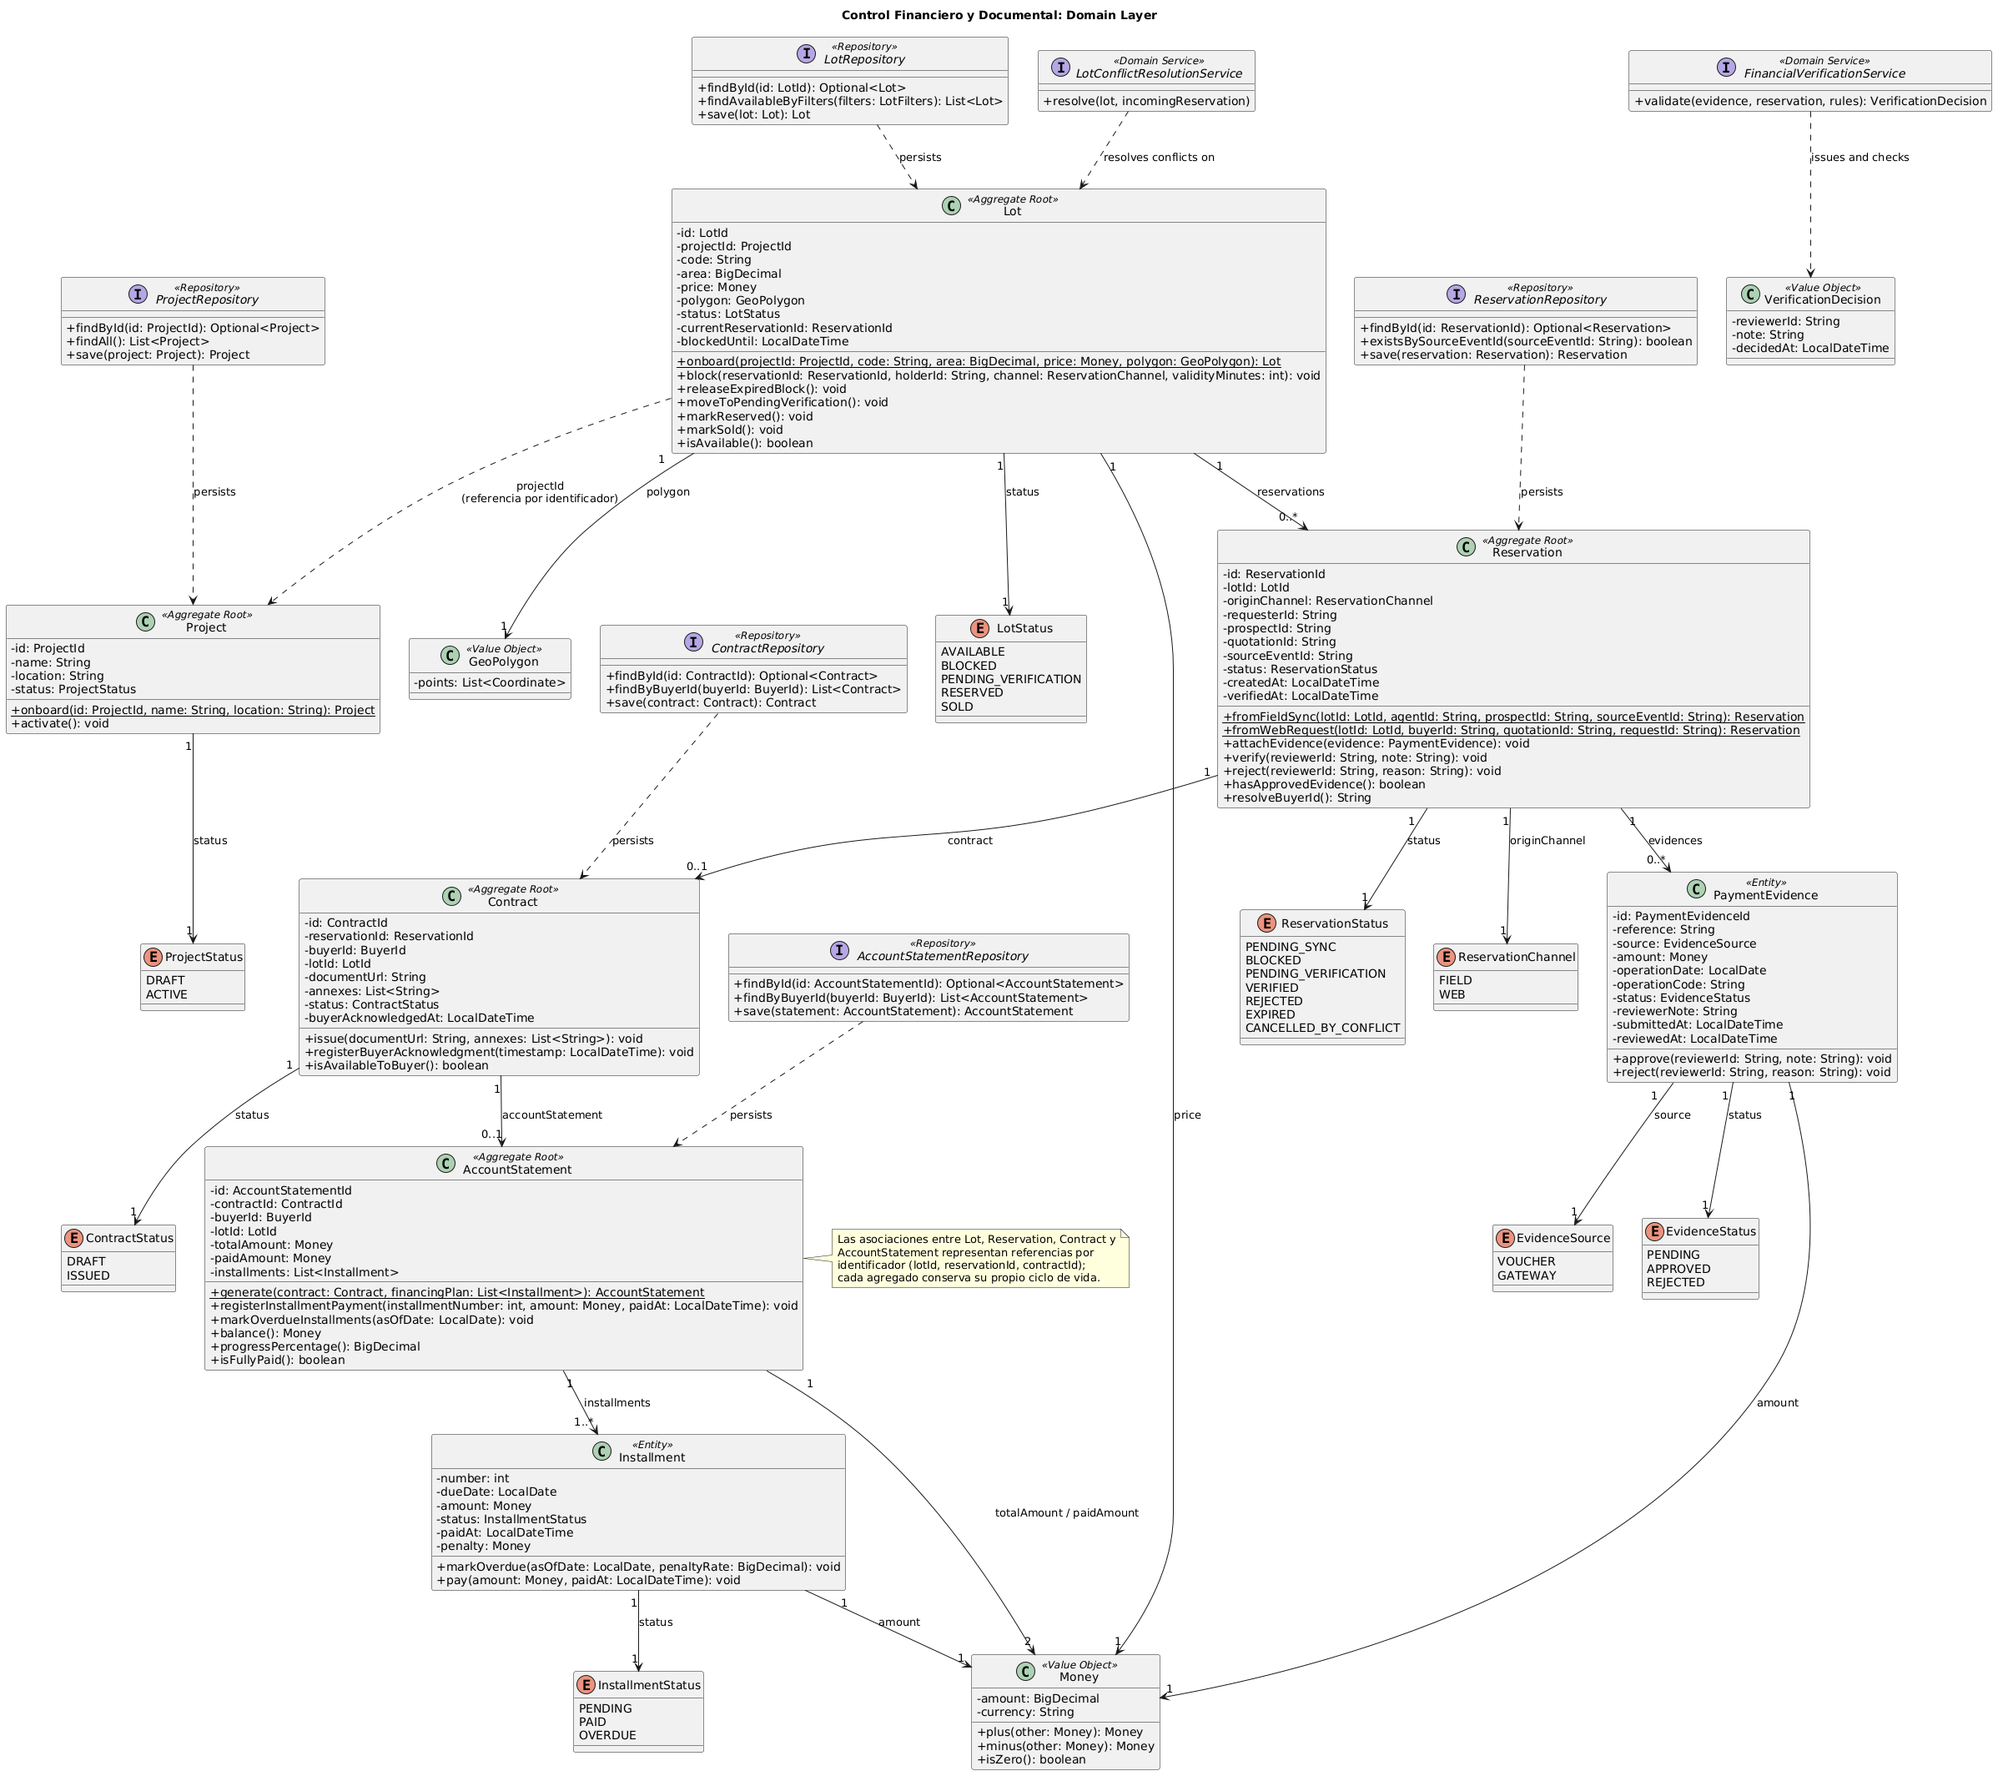
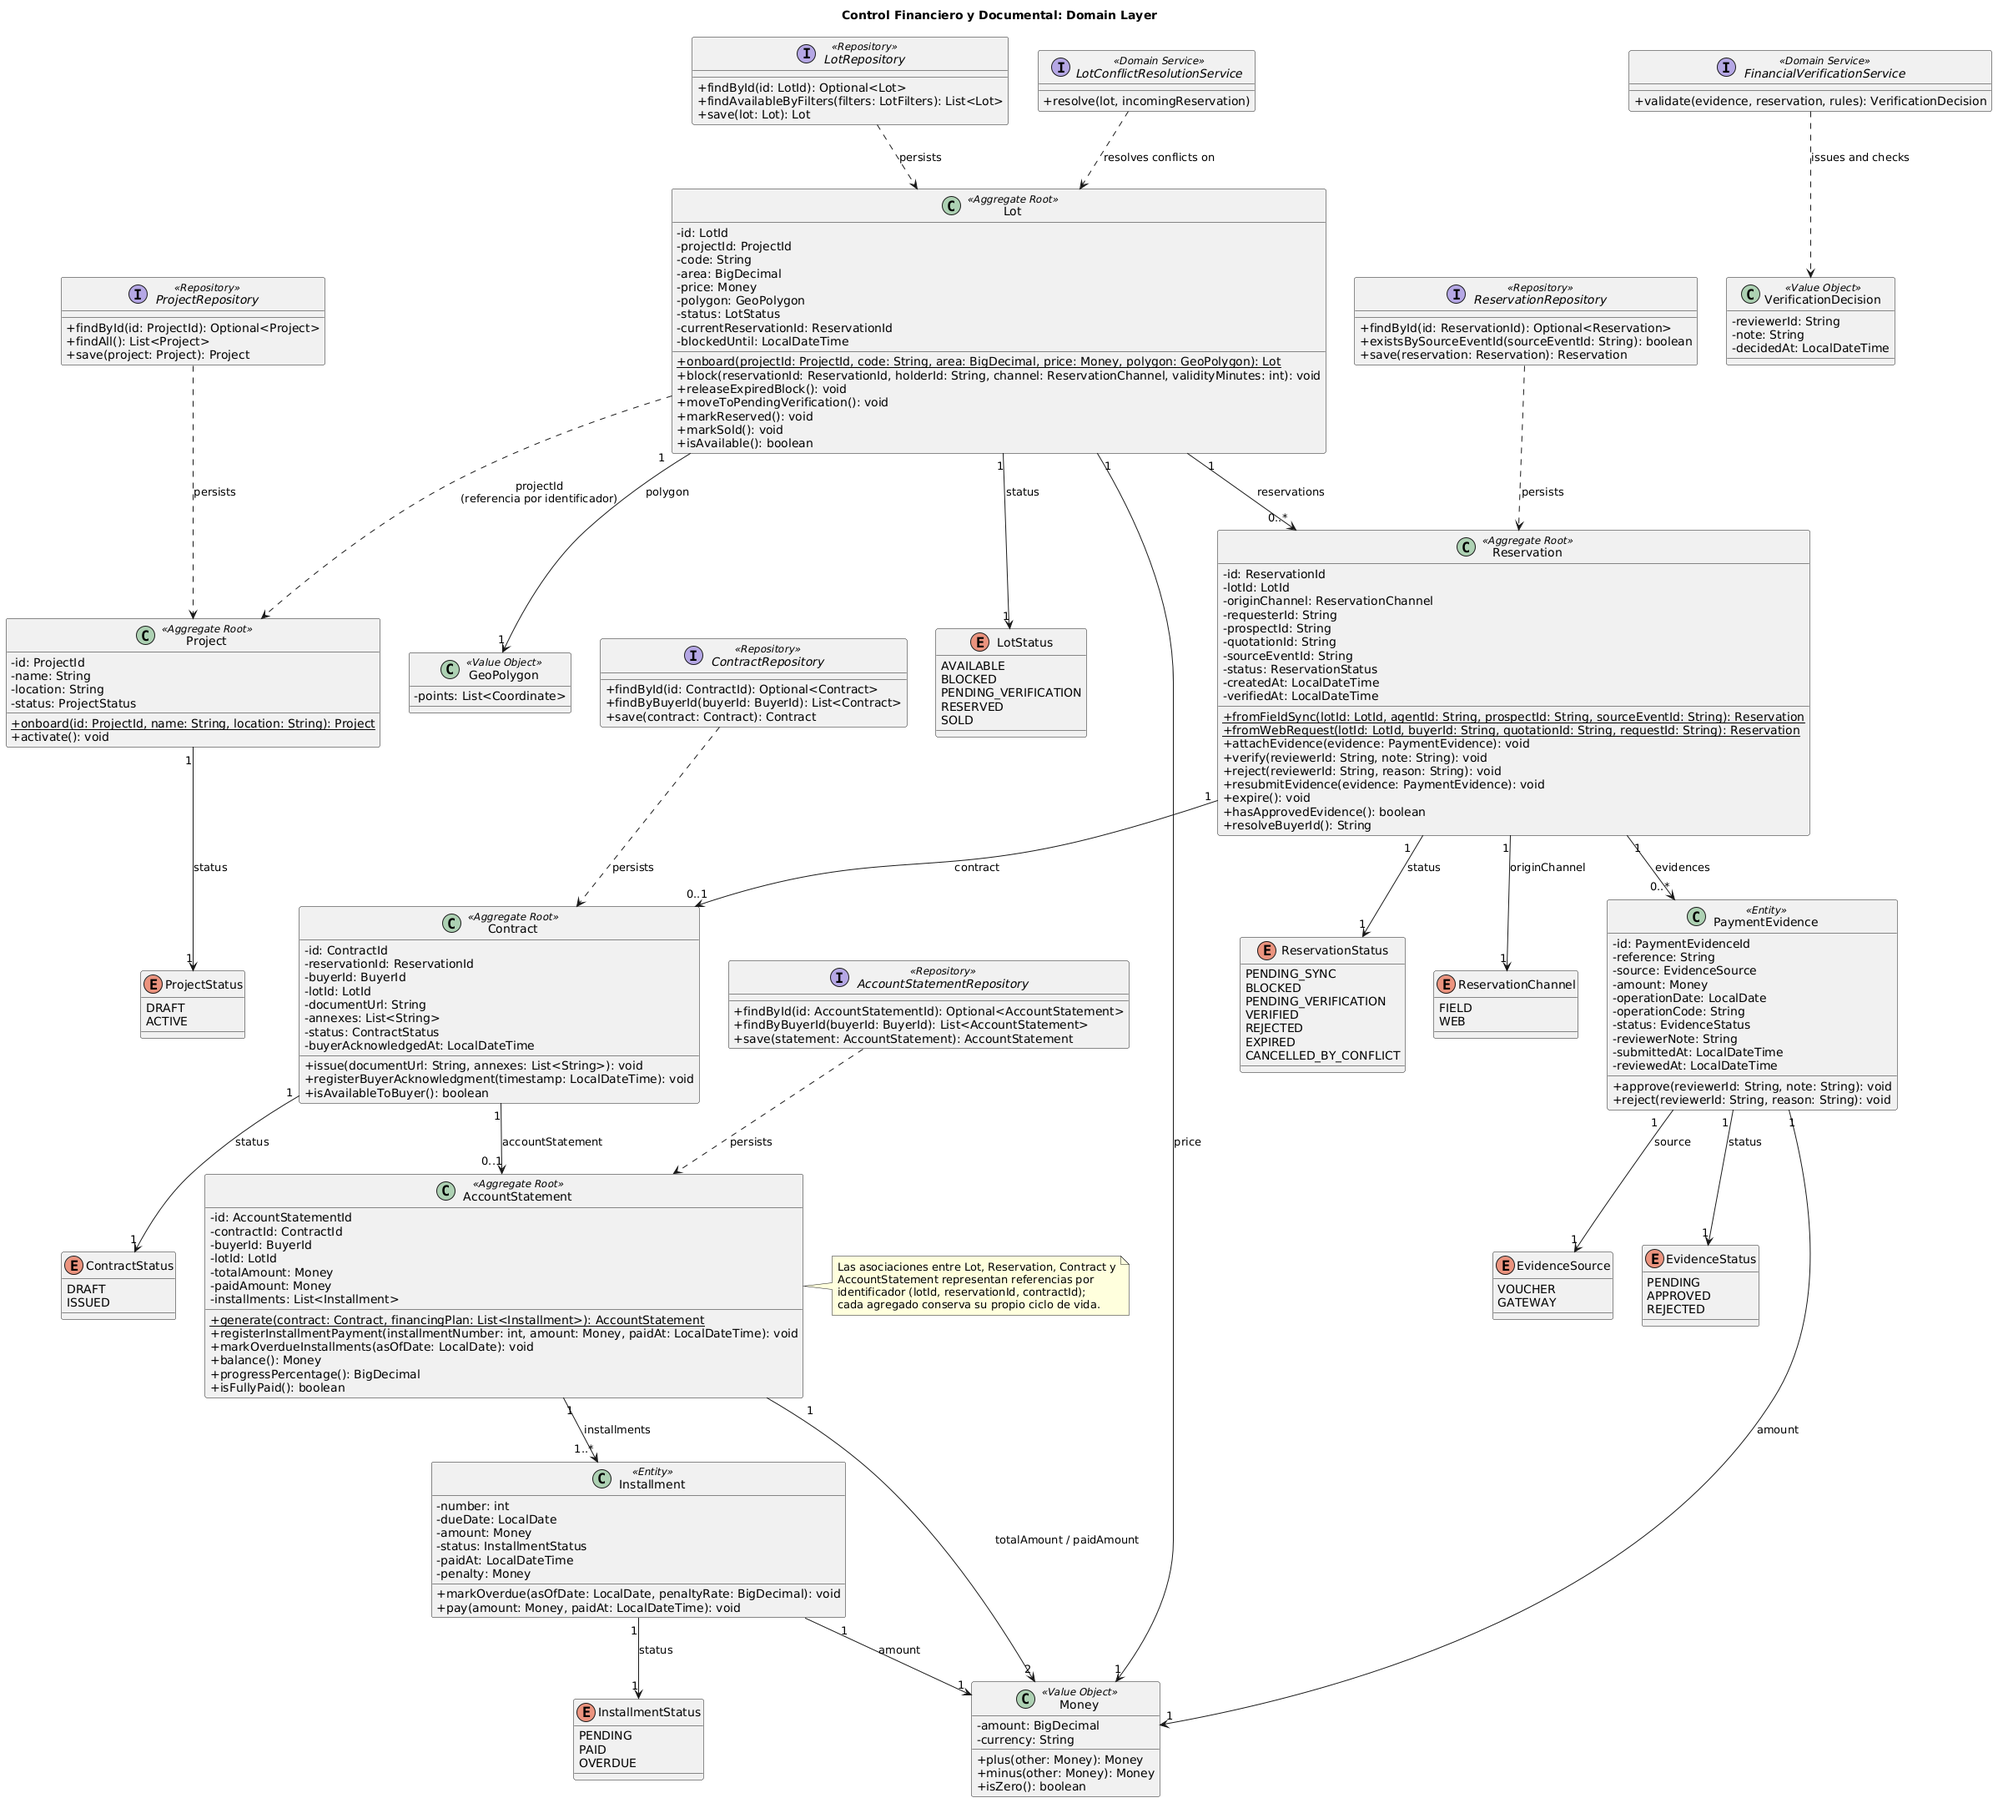
fix(chapter-02): close reservation/voucher lifecycle for block expiration and rejection-resubmit flow

diff --git a/docs/Chapter-02.md b/docs/Chapter-02.md
@@ -2800,7 +2800,7 @@ Control Financiero y Documental es el contexto que sostiene la trazabilidad post
       <td><b>Reservation</b></td>
       <td>Aggregate Root</td>
       <td>Separación consolidada de un lote, originada en campo (offline) o desde la web, con el historial de evidencias de pago y su verificación.</td>
-      <td>id, lotId, originChannel, requesterId, prospectId, quotationId, sourceEventId, status, createdAt, verifiedAt. fromFieldSync(lotId, agentId, prospectId, sourceEventId), fromWebRequest(lotId, buyerId, quotationId, requestId), attachEvidence(evidence), verify(reviewerId, note), reject(reviewerId, reason), hasApprovedEvidence(), resolveBuyerId().</td>
+      <td>id, lotId, originChannel, requesterId, prospectId, quotationId, sourceEventId, status, createdAt, verifiedAt. fromFieldSync(lotId, agentId, prospectId, sourceEventId), fromWebRequest(lotId, buyerId, quotationId, requestId), attachEvidence(evidence), verify(reviewerId, note), reject(reviewerId, reason), resubmitEvidence(evidence), expire(), hasApprovedEvidence(), resolveBuyerId().</td>
     </tr>
     <tr>
       <td><b>PaymentEvidence</b></td>
@@ -2863,10 +2863,10 @@ Control Financiero y Documental es el contexto que sostiene la trazabilidad post
       <td>findById, findAvailableByFilters, existsBySourceEventId, findByBuyerId, findAll, save.</td>
     </tr>
     <tr>
-      <td><b>OnboardProjectFromCatalogCommand,<br>ActivateProjectCommand,<br>OnboardLotFromCatalogCommand,<br>BlockLotCommand,<br>SyncFieldRecordsCommand,<br>VerifyPaymentCommand,<br>RejectPaymentCommand,<br>IssueContractCommand,<br>RegisterBuyerAcknowledgmentCommand,<br>RegisterInstallmentPaymentCommand,<br>MarkOverdueInstallmentsCommand</b></td>
+      <td><b>OnboardProjectFromCatalogCommand,<br>ActivateProjectCommand,<br>OnboardLotFromCatalogCommand,<br>BlockLotCommand,<br>ReleaseExpiredBlocksCommand,<br>SyncFieldRecordsCommand,<br>VerifyPaymentCommand,<br>RejectPaymentCommand,<br>ResubmitPaymentEvidenceCommand,<br>IssueContractCommand,<br>RegisterBuyerAcknowledgmentCommand,<br>RegisterInstallmentPaymentCommand,<br>MarkOverdueInstallmentsCommand</b></td>
       <td>Command</td>
-      <td>Intenciones de cambio sobre la proyección de proyectos, sobre el inventario (su alta y su disponibilidad), la sincronización de campo, la verificación financiera, la emisión contractual y el seguimiento de pagos.</td>
-      <td>Los datos necesarios por comando: id, name, location; projectId; projectId, code, area, price y polygon; lotId y vigencia; arreglo de prospectos pendientes y arreglo de reservas pendientes (lote único); evidenceId y decisión; documentUrl y anexos; timestamp; installmentNumber y monto; fecha de corte.</td>
+      <td>Intenciones de cambio sobre la proyección de proyectos, sobre el inventario (su alta, disponibilidad y expiración), la sincronización de campo, la verificación financiera (incluido el reenvío de evidencia tras un rechazo), la emisión contractual y el seguimiento de pagos.</td>
+      <td>Los datos necesarios por comando: id, name, location; projectId; projectId, code, area, price y polygon; lotId y vigencia; (sin datos, job periódico); arreglo de prospectos pendientes y arreglo de reservas pendientes (lote único); evidenceId y decisión; reservationId y nueva evidencia; documentUrl y anexos; timestamp; installmentNumber y monto; fecha de corte.</td>
     </tr>
     <tr>
       <td><b>FindLotsQuery,<br>GetLotAvailabilityQuery,<br>GetPendingVerificationsQuery,<br>GetContractQuery,<br>GetAccountStatementQuery,<br>GetPaymentHistoryQuery</b></td>
@@ -2887,10 +2887,10 @@ Control Financiero y Documental es el contexto que sostiene la trazabilidad post
       <td>reservationId, lotId, occurredAt.</td>
     </tr>
     <tr>
-      <td><b>PaymentVerifiedEvent,<br>ContractAcknowledgedEvent,<br>InstallmentPaidEvent,<br>LotFullyPaidEvent</b></td>
+      <td><b>PaymentVerifiedEvent,<br>PaymentRejectedEvent,<br>ReservationExpiredEvent,<br>ContractAcknowledgedEvent,<br>InstallmentPaidEvent,<br>LotFullyPaidEvent</b></td>
       <td>Domain Event</td>
-      <td>Eventos internos sin consumidores externos declarados; se conservan para auditoría y para que AccountStatement y Lot reaccionen entre sí dentro del mismo contexto.</td>
-      <td>lotId/reservationId; contractId; installmentNumber, amount; lotId, fullyPaidAt.</td>
+      <td>Eventos internos sin consumidores externos declarados; se conservan para auditoría y para que AccountStatement y Lot reaccionen entre sí dentro del mismo contexto. PaymentRejectedEvent habilita en pantalla el botón de sustituto (US-25); ReservationExpiredEvent libera el lote y notifica al canal de origen que el bloqueo venció.</td>
+      <td>lotId/reservationId; reservationId, reason; reservationId, lotId; contractId; installmentNumber, amount; lotId, fullyPaidAt.</td>
     </tr>
   </tbody>
 </table>
@@ -2898,6 +2898,8 @@ Control Financiero y Documental es el contexto que sostiene la trazabilidad post
 `Reservation.resolveBuyerId()` resuelve de forma distinta según el canal: en una reserva `WEB`, el comprador ya existe como tal, así que retorna directamente `requesterId`. En una reserva `FIELD`, no existe una cuenta de comprador formal —el agente nunca exige al prospecto crear una (eso es exclusivo del canal web, US-14)—, así que el método usa `prospectId` como la identidad del comprador: el prospecto sincronizado se convierte en comprador en el momento en que su pago es verificado, sin paso intermedio. `ContractCommandServiceImpl` invoca este método al emitir el `Contract`, en vez de asumir que `requesterId` siempre es un `buyerId` válido.
 
 Para separaciones `WEB`, `quotationId` viaja desde `SeparationRequest` hasta `Reservation` a través de `blockLot()`. Cuando `AccountStatementServiceImpl` necesita generar el `AccountStatement` de un contrato emitido, usa ese `quotationId` para obtener el cronograma originalmente simulado: `FinancingPlanServiceImpl` (Infrastructure Layer) lo recupera en el mismo proceso desde el `QuotationSnapshotPort` que expone Cotización y Separación Digital, y lo traduce a los `Installment` propios de este contexto. Para separaciones `FIELD`, que no pasan por una simulación previa, `AccountStatement.generate()` recibe en su lugar el plan acordado manualmente por el agente y validado durante la verificación financiera.
+
+El ciclo de vida de `Lot.blockedUntil` y el de `Reservation` quedan cerrados con tres reglas. Primero, la expiración es activa, no pasiva: un job periódico ejecuta `ReleaseExpiredBlocksCommand`, que busca los `Lot` en `BLOCKED` cuyo `blockedUntil` ya venció, invoca `Lot.releaseExpiredBlock()` —dejándolo `AVAILABLE` de nuevo— y `Reservation.expire()` sobre la reserva asociada, publicando `ReservationExpiredEvent`. Segundo, si el comprobante llega después de que la reserva ya expiró o fue cancelada por conflicto, `PaymentEvidenceReceivedEventHandler` igual conserva la evidencia para auditoría, pero no reabre la reserva ni reactiva el lote: el caso queda marcado para revisión manual del back-office, porque el lote ya pudo haber sido tomado por otro comprador. Tercero, cuando el back-office rechaza un comprobante, `handle(RejectPaymentCommand)` mueve la `Reservation` a `REJECTED` y publica `PaymentRejectedEvent`, lo que habilita en pantalla el botón de sustituto (US-25); al llegar un nuevo comprobante para esa misma reserva, `PaymentEvidenceReceivedEventHandler` invoca `Reservation.resubmitEvidence(evidence)` en lugar de `attachEvidence(evidence)`, devolviéndola a `PENDING_VERIFICATION` sin perder el historial de evidencias previas.
 
 #### 2.6.4.2. Interface Layer
 
@@ -2966,7 +2968,7 @@ El endpoint `GET /api/v1/field-sync/catalog` es distinto de `GET /api/v1/project
     <tr>
       <td><b>VerificationCommandServiceImpl</b></td>
       <td>Command Service</td>
-      <td>handle(VerifyPaymentCommand) / handle(RejectPaymentCommand): invoca FinancialVerificationService.validate, aprueba o rechaza la PaymentEvidence y, si corresponde, mueve la Reservation a VERIFIED y publica PaymentVerifiedEvent.</td>
+      <td>handle(VerifyPaymentCommand): invoca FinancialVerificationService.validate, aprueba la PaymentEvidence, mueve la Reservation a VERIFIED y publica PaymentVerifiedEvent. handle(RejectPaymentCommand): rechaza la PaymentEvidence, mueve la Reservation a REJECTED y publica PaymentRejectedEvent. handle(ResubmitPaymentEvidenceCommand): invoca Reservation.resubmitEvidence con la nueva evidencia, devolviéndola a PENDING_VERIFICATION.</td>
     </tr>
     <tr>
       <td><b>ContractCommandServiceImpl</b></td>
@@ -2981,7 +2983,7 @@ El endpoint `GET /api/v1/field-sync/catalog` es distinto de `GET /api/v1/project
     <tr>
       <td><b>LotQueryServiceImpl,<br>LotBlockingServiceImpl,<br>LotCatalogSyncServiceImpl</b></td>
       <td>Query/Command Service</td>
-      <td>Los dos primeros implementan LotAvailabilityPort: resuelven FindProjectsQuery (leyendo la proyección de Project), FindLotsQuery y GetLotAvailabilityQuery, y ejecutan BlockLotCommand invocando Lot.block en el mismo proceso que invoca Cotización y Separación Digital. LotCatalogSyncServiceImpl maneja OnboardProjectFromCatalogCommand, ActivateProjectCommand y OnboardLotFromCatalogCommand: antes de invocar Project.onboard o Lot.onboard, verifica con el repositorio correspondiente que el registro no exista todavía, para tolerar que el evento se reciba más de una vez sin duplicar el inventario.</td>
+      <td>Los dos primeros implementan LotAvailabilityPort: resuelven FindProjectsQuery (leyendo la proyección de Project), FindLotsQuery y GetLotAvailabilityQuery, ejecutan BlockLotCommand invocando Lot.block en el mismo proceso que invoca Cotización y Separación Digital, y handle(ReleaseExpiredBlocksCommand): job periódico que busca los Lot en BLOCKED con blockedUntil vencido, invoca Lot.releaseExpiredBlock() y Reservation.expire() sobre la reserva asociada, y publica ReservationExpiredEvent. LotCatalogSyncServiceImpl maneja OnboardProjectFromCatalogCommand, ActivateProjectCommand y OnboardLotFromCatalogCommand: antes de invocar Project.onboard o Lot.onboard, verifica con el repositorio correspondiente que el registro no exista todavía, para tolerar que el evento se reciba más de una vez sin duplicar el inventario.</td>
     </tr>
   </tbody>
 </table>
@@ -3011,7 +3013,7 @@ El endpoint `GET /api/v1/field-sync/catalog` es distinto de `GET /api/v1/project
     <tr>
       <td><b>PaymentEvidenceReceivedEventHandler</b></td>
       <td>Anti-corruption Layer (Event Handler)</td>
-      <td>Traduce el evento de comprobante recibido, publicado por Gestión de Comprobantes, en una PaymentEvidence asociada a la Reservation correspondiente.</td>
+      <td>Traduce el evento de comprobante recibido, publicado por Gestión de Comprobantes, en una PaymentEvidence asociada a la Reservation correspondiente. Si la Reservation está en BLOCKED o PENDING_VERIFICATION, invoca attachEvidence(); si está en REJECTED, invoca resubmitEvidence() (sustituto, US-25); si está en EXPIRED o CANCELLED_BY_CONFLICT, conserva la evidencia para auditoría sin reabrir la reserva, y marca el caso para revisión manual del back-office.</td>
     </tr>
     <tr>
       <td><b>LotPublishedToCatalogEventHandlerImpl</b></td>
